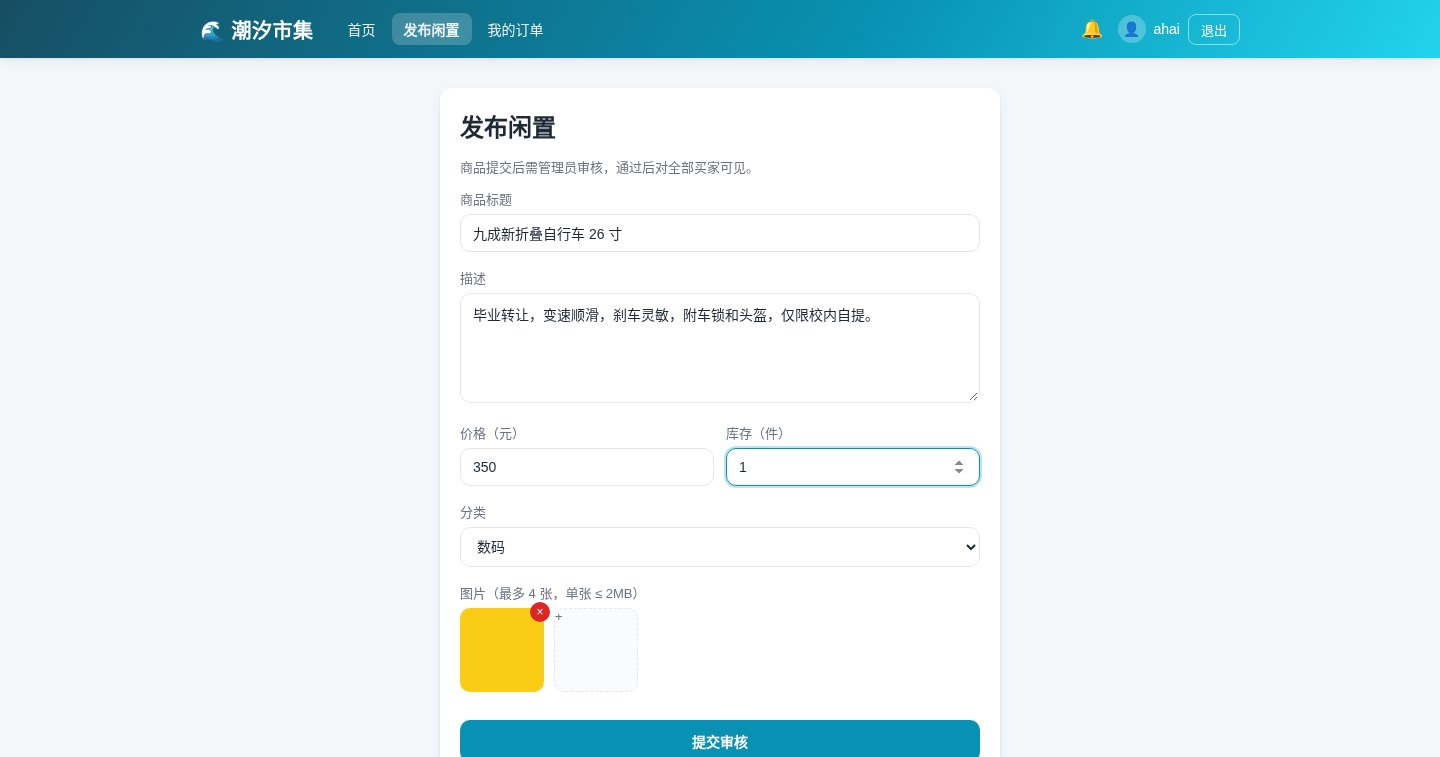
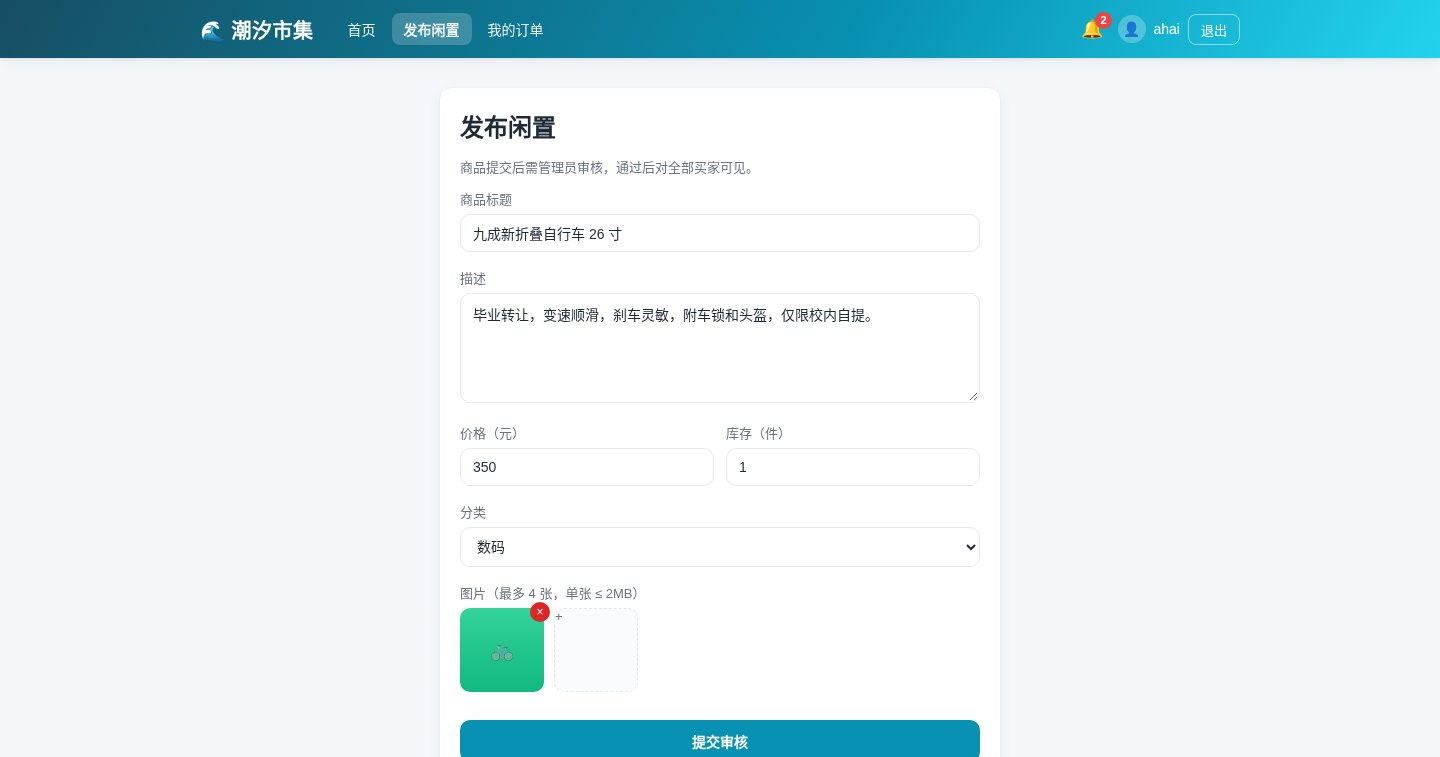
📝 README 图片改用 jsDelivr CDN + 扩写许可条款；自行车商品图更换为带图案版本
- README 截图链接换 jsDelivr（国内可直接加载，GitHub camo 代理被墙）
- 许可章节直接列出核心条款并署名 余阳辉 / Wyy520-create
- 重拍 11/15 截图：自行车商品图由纯色块换成 渐变+图案

Changed region(s): [[0.5, 0.5773, 0.6875, 0.6684], [0.3125, 0.79, 0.4062, 0.9419], [0.75, 0.0, 0.7812, 0.0304]]

diff --git a/README.md b/README.md
@@ -12,21 +12,21 @@
 
 | # | 截图 | 说明 |
 |---|------|------|
-| 01 | ![首页](docs/screenshots/01-home.jpeg) | 首页商品列表：分页、分类筛选、库存紧张标记 |
-| 02 | ![搜索](docs/screenshots/02-search.jpeg) | 关键词搜索"索尼"命中商品 |
-| 03 | ![商品详情](docs/screenshots/03-detail.jpeg) | 详情页：价格、库存、卖家、浏览次数 |
-| 04 | ![登录](docs/screenshots/04-login.jpeg) | 未登录点击购买被引导至登录页 |
-| 05 | ![登录回跳](docs/screenshots/05-login-back-detail.jpeg) | 登录后自动跳回刚才的商品详情页 |
-| 06 | ![待支付订单](docs/screenshots/06-order-pending.jpeg) | 下单成功生成待支付订单，15 分钟支付倒计时 |
-| 07 | ![模拟收银台](docs/screenshots/07-pay-modal.jpeg) | 模拟收银台弹窗 |
-| 08 | ![支付成功](docs/screenshots/08-order-paid.jpeg) | 订单变为已支付，卖家将实时收到通知 |
-| 09 | ![实时通知](docs/screenshots/09-ws-notify.jpeg) | 卖家页面实时弹出 WebSocket 通知"商品被拍下" |
-| 10 | ![通知中心](docs/screenshots/10-notifications.jpeg) | 通知中心：拍下/支付/取消/超时全记录 |
-| 11 | ![发布商品](docs/screenshots/11-publish.jpeg) | 发布闲置：填写信息 + 真实图片上传 |
-| 12 | ![发布成功](docs/screenshots/12-publish-success.jpeg) | 提交后进入审核队列，通过后自动上架 |
-| 13 | ![后台审核](docs/screenshots/13-admin-review.jpeg) | 管理后台：数据统计 + 审核队列 + 用户角色 |
-| 14 | ![审核通过](docs/screenshots/14-admin-approved.jpeg) | 点击通过后队列清空，卖家收到实时通知 |
-| 15 | ![上架可见](docs/screenshots/15-product-listed.jpeg) | 审核通过的商品立刻可以被搜索到 |
+| 01 | ![首页](https://cdn.jsdelivr.net/gh/Wyy520-create/TideMarket@main/docs/screenshots/01-home.jpeg) | 首页商品列表：分页、分类筛选、库存紧张标记 |
+| 02 | ![搜索](https://cdn.jsdelivr.net/gh/Wyy520-create/TideMarket@main/docs/screenshots/02-search.jpeg) | 关键词搜索"索尼"命中商品 |
+| 03 | ![商品详情](https://cdn.jsdelivr.net/gh/Wyy520-create/TideMarket@main/docs/screenshots/03-detail.jpeg) | 详情页：价格、库存、卖家、浏览次数 |
+| 04 | ![登录](https://cdn.jsdelivr.net/gh/Wyy520-create/TideMarket@main/docs/screenshots/04-login.jpeg) | 未登录点击购买被引导至登录页 |
+| 05 | ![登录回跳](https://cdn.jsdelivr.net/gh/Wyy520-create/TideMarket@main/docs/screenshots/05-login-back-detail.jpeg) | 登录后自动跳回刚才的商品详情页 |
+| 06 | ![待支付订单](https://cdn.jsdelivr.net/gh/Wyy520-create/TideMarket@main/docs/screenshots/06-order-pending.jpeg) | 下单成功生成待支付订单，15 分钟支付倒计时 |
+| 07 | ![模拟收银台](https://cdn.jsdelivr.net/gh/Wyy520-create/TideMarket@main/docs/screenshots/07-pay-modal.jpeg) | 模拟收银台弹窗 |
+| 08 | ![支付成功](https://cdn.jsdelivr.net/gh/Wyy520-create/TideMarket@main/docs/screenshots/08-order-paid.jpeg) | 订单变为已支付，卖家将实时收到通知 |
+| 09 | ![实时通知](https://cdn.jsdelivr.net/gh/Wyy520-create/TideMarket@main/docs/screenshots/09-ws-notify.jpeg) | 卖家页面实时弹出 WebSocket 通知"商品被拍下" |
+| 10 | ![通知中心](https://cdn.jsdelivr.net/gh/Wyy520-create/TideMarket@main/docs/screenshots/10-notifications.jpeg) | 通知中心：拍下/支付/取消/超时全记录 |
+| 11 | ![发布商品](https://cdn.jsdelivr.net/gh/Wyy520-create/TideMarket@main/docs/screenshots/11-publish.jpeg) | 发布闲置：填写信息 + 真实图片上传 |
+| 12 | ![发布成功](https://cdn.jsdelivr.net/gh/Wyy520-create/TideMarket@main/docs/screenshots/12-publish-success.jpeg) | 提交后进入审核队列，通过后自动上架 |
+| 13 | ![后台审核](https://cdn.jsdelivr.net/gh/Wyy520-create/TideMarket@main/docs/screenshots/13-admin-review.jpeg) | 管理后台：数据统计 + 审核队列 + 用户角色 |
+| 14 | ![审核通过](https://cdn.jsdelivr.net/gh/Wyy520-create/TideMarket@main/docs/screenshots/14-admin-approved.jpeg) | 点击通过后队列清空，卖家收到实时通知 |
+| 15 | ![上架可见](https://cdn.jsdelivr.net/gh/Wyy520-create/TideMarket@main/docs/screenshots/15-product-listed.jpeg) | 审核通过的商品立刻可以被搜索到 |
 
 ## 技术栈
 
@@ -211,4 +211,13 @@ cpolar http 3201
 
 ## 许可
 
-本项目采用自定义许可协议发布 —— **保留所有权利**，详见 [LICENSE](LICENSE)。
+**版权所有 (c) 2026 余阳辉（GitHub：[@Wyy520-create](https://github.com/Wyy520-create)）。保留所有权利。**
+
+本项目采用自定义许可协议发布，核心条款如下：
+
+- 本软件仅供**个人学习与技术交流**使用，不提供任何商业授权；
+- 未经著作权人书面许可，**禁止复制、修改、反编译、再发布**本软件的全部或部分，禁止用于任何商业目的；
+- 禁止删除或篡改源代码中的版权声明与署名信息；
+- 本软件按"现状"提供，**不承担任何明示或默示担保**，使用风险由使用者自负。
+
+完整协议文本见 [LICENSE](LICENSE)。
